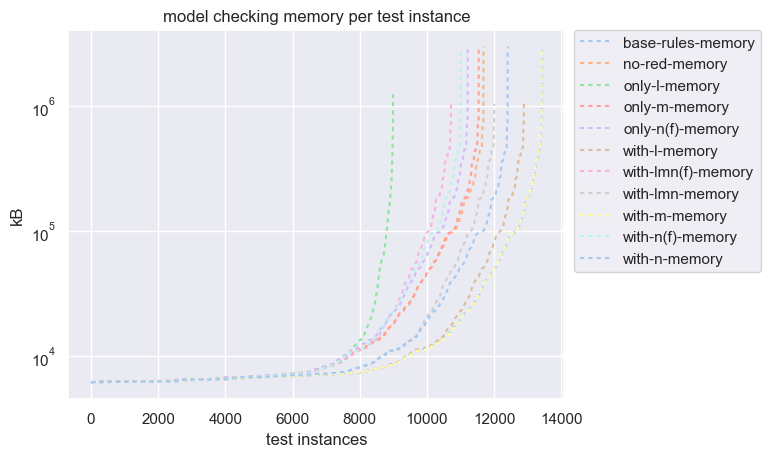
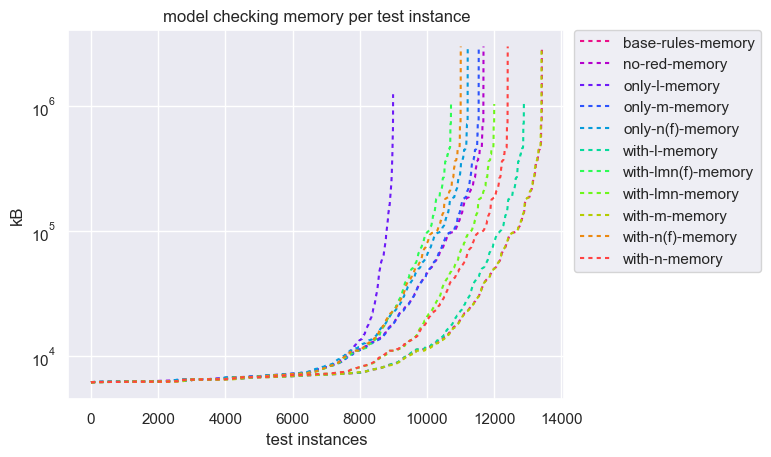
adds the fancy color function

Changed region(s): [[0.3113, 0.0919, 0.6848, 0.8271], [0.1245, 0.8271, 0.3113, 0.8578]]

diff --git a/graph_utility/time_memory_combined.py b/graph_utility/time_memory_combined.py
@@ -1,6 +1,7 @@
 import os
 import sys
 import matplotlib.pyplot as plt
+import numpy as np
 import pandas as pd
 import seaborn as sns
 import re
@@ -50,8 +51,16 @@ def plot(data_list, test_names, graph_dir):
     # Recolor lines and choose dashes such that all memory-lines gets dashes, and time-lines are not dashes
     # Also make sure the color matches between the two lines for each experiment
     regex = r"(.*)-(time|memory)$"
-    sns.set_theme(style="darkgrid", palette="pastel")
-    pal = sns.color_palette('pastel', 16)
+    sns.set_theme(style="darkgrid")
+
+    def color(t):
+        a = np.array([0.5, 0.5, 0.5])
+        b = np.array([0.5, 0.5, 0.5])
+        c = np.array([1.0, 1.0, 1.0])
+        d = np.array([0.0, 0.33, 0.67])
+
+        return a + (b * np.cos(2 * np.pi * (c * t + d)))
+
     custom_palette = {}
     dashes = []
     for column_index, column in enumerate(combined_df.columns):
@@ -65,7 +74,7 @@ def plot(data_list, test_names, graph_dir):
             else:
                 raise Exception("(time_memory_combined) Should not be able to reach this")
             test_name = match.groups()[0]
-            custom_palette[column] = pal[test_names.index(test_name)]
+            custom_palette[column] = color((column_index + 1) / len(combined_df.columns))
 
     # Plot the plot
     plot = sns.lineplot(data=combined_df, palette=custom_palette,

diff --git a/graph_utility/time_memory.py b/graph_utility/time_memory.py
@@ -1,9 +1,11 @@
+import math
 import os
 import sys
 import matplotlib.pyplot as plt
 import pandas as pd
 import seaborn as sns
 import copy
+import numpy as np
 
 
 def plot(data_list, test_names, graph_dir, metric):
@@ -37,8 +39,14 @@ def plot(data_list, test_names, graph_dir, metric):
         combined_df = combined_df.join(metric_data)
 
     # Make sure colors and dashes matches the ones from 'time_memory_combined'
-    sns.set_theme(style="darkgrid", palette="pastel")
-    pal = sns.color_palette('pastel', 16)
+    def color(t):
+        a = np.array([0.5, 0.5, 0.5])
+        b = np.array([0.5, 0.5, 0.5])
+        c = np.array([1.0, 1.0, 1.0])
+        d = np.array([0.0, 0.33, 0.67])
+
+        return a + (b * np.cos(2 * np.pi * (c * t + d)))
+    sns.set_theme(style="darkgrid")
     custom_palette = {}
     dashes = []
     for column_index, column in enumerate(combined_df.columns):
@@ -48,7 +56,7 @@ def plot(data_list, test_names, graph_dir, metric):
             dashes.append((2, 2))
         else:
             raise Exception("(time_memory) Should not be able to reach this")
-        custom_palette[column] = pal[column_index]
+        custom_palette[column] = color((column_index + 1) / len(combined_df.columns))
 
     # Plot the plot
     plot = sns.lineplot(data=combined_df, palette=custom_palette,

diff --git a/graph_utility/all_graphs.py b/graph_utility/all_graphs.py
@@ -34,7 +34,8 @@ def plot_all(data_list, test_names, graph_dir):
     metrics = ['time', 'memory']
     for metric in metrics:
         time_memory.plot(data_list, test_names, graph_dir, metric)
-    print(f"6/{num_graphs} graphs done")
+        print(f"{6+metrics.index(metric)}/{num_graphs} graphs done")
+
 
 
 if __name__ == "__main__":
